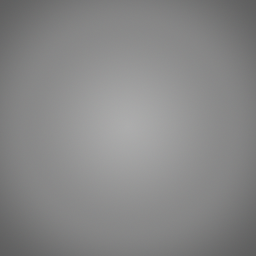
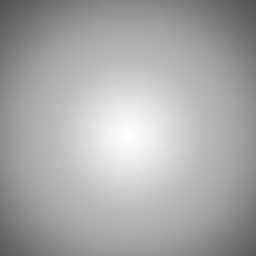
stageの背景色を追加

diff --git a/src/FieldView.hpp b/src/FieldView.hpp
@@ -89,7 +89,14 @@ class FieldView : private boost::noncopyable {
   MaterialHolder materials_;
 
   ci::gl::Texture bg_texture_;
+  
+  std::string bg_tween_type_;
+  float bg_tween_duration_;
 
+  ci::ColorA fog_color_rate_;
+
+  ci::Anim<ci::Color> bg_color_;
+  ci::Anim<ci::ColorA> fog_color_;
   
   
 public:
@@ -117,7 +124,12 @@ public:
     touch_input_(true),
     animation_timeline_(ci::Timeline::create()),
     progressing_seconds_(0.0),
-    bg_texture_(ci::loadImage(ci::app::loadAsset("bg.png")))
+    bg_texture_(ci::loadImage(ci::app::loadAsset("bg.png"))),
+    bg_tween_type_(params["game_view.bg_tween_type"].getValue<std::string>()),
+    bg_tween_duration_(params["game_view.bg_tween_duration"].getValue<float>()),
+    fog_color_rate_(Json::getColorA<float>(params["game_view.fog_color"])),
+    bg_color_(ci::Color(0, 0, 0)),
+    fog_color_(ci::ColorA(0, 0, 0, 1))
     // camera_editor_(camera_, interest_point_, eye_point_)
   {
     // 注視点からの距離、角度でcamera位置を決めている
@@ -225,7 +237,7 @@ public:
       ci::gl::disableDepthRead();
       ci::gl::disableDepthWrite();
       ci::gl::disable(GL_LIGHTING);
-      ci::gl::color(ci::Color(1, 1, 1));
+      ci::gl::color(bg_color_);
       ci::gl::draw(bg_texture_);
     }
 
@@ -235,8 +247,7 @@ public:
 
     ci::gl::enable(GL_FOG);
     glFogi(GL_FOG_MODE, GL_LINEAR);
-    auto color = Json::getColorA<float>(params_["game_view.fog_color"]);
-    glFogfv(GL_FOG_COLOR, color.ptr());
+    glFogfv(GL_FOG_COLOR, fog_color_().ptr());
     glFogf(GL_FOG_START, params_["game_view.fog_start"].getValue<float>());
     glFogf(GL_FOG_END, params_["game_view.fog_end"].getValue<float>());
     
@@ -301,7 +312,15 @@ public:
   }
 
   void setStageColor(const ci::Color& color) {
-    // TODO:背景色を滑らかに変化
+    animation_timeline_->apply(&bg_color_,
+                               color,
+                               bg_tween_duration_, getEaseFunc(bg_tween_type_));
+
+    ci::ColorA fog_color = ci::ColorA(color.r, color.g, color.b, 1) * fog_color_rate_;
+    
+    animation_timeline_->apply(&fog_color_,
+                               fog_color,
+                               bg_tween_duration_, getEaseFunc(bg_tween_type_));
   }
 
   void enableFollowCamera(const bool enable = true) {

diff --git a/src/FieldEntity.hpp b/src/FieldEntity.hpp
@@ -32,6 +32,7 @@ class FieldEntity : private boost::noncopyable {
   std::vector<ci::Color> cube_stage_color_;
   ci::Color cube_line_color_;
   ci::Color stage_color_;
+  ci::Color finish_color_;
 
   float finish_rate_;
 
@@ -167,6 +168,12 @@ public:
       if (isAllPickableCubesFinished()) {
         mode_ = CLEAR;
         event_.signal("all-pickable-finished", EventParam());
+        {
+          EventParam params = {
+            { "stage_color", finish_color_ }
+          };
+          event_.signal("stage-color", params);
+        }
       }
       break;
 
@@ -220,6 +227,13 @@ public:
     // bgの位置を決めるためにステージの中央座標を求める
     const auto& width = stage_.getStageWidth();
     stage_center_x_ = (width.x + width.y) / 2;
+
+    {
+      EventParam params = {
+        { "stage_color", stage_info.stage_color }
+      };
+      event_.signal("stage-color", params);
+    }
     
     stage_.buildStage();
 
@@ -257,6 +271,7 @@ public:
     start_line_z_ = next_start_line_z_;
     stage_info = addCubeStage("finishline.json");
     next_start_line_z_ = stage_info.top_z - 1;
+    finish_color_ = stage_info.stage_color;
 
     mode_ = START;
     first_started_pickable_ = false;

diff --git a/src/FieldController.hpp b/src/FieldController.hpp
@@ -240,7 +240,12 @@ public:
                                      entity_.enablePickableCubeMovedEvent();
                                      view_.enableTouchInput();
                                    });
-    
+
+    connections_ += event_.connect("stage-color",
+                                   [this](const Connection& connection, EventParam& param) {
+                                     const auto& color = boost::any_cast<const ci::Color&>(param["stage_color"]);
+                                     view_.setStageColor(color);
+                                   });
     
 #ifdef DEBUG
     connections_ += event_.connect("force-collapse",
@@ -299,7 +304,6 @@ private:
                                        
                                      connection.disconnect();
                                    });
-
     view_.enableTouchInput();
     view_.resetCamera();
     view_.enableFollowCamera();
